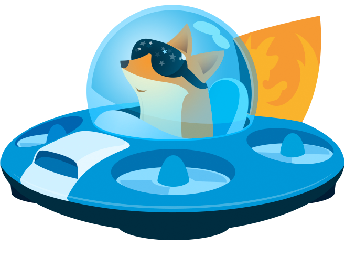
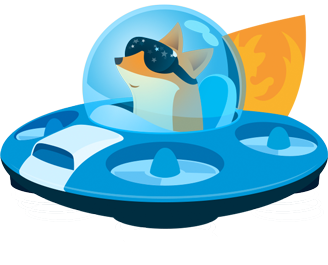
fix jaggy doorhanger image

diff --git a/addon/data/panel.css b/addon/data/panel.css
@@ -169,13 +169,11 @@ a {
 }
 
 .installed-message p {
-    font-size: 1.2rem;
+    font-size: 16px;
+    line-height: 26px;
     margin-bottom: 0;
 }
 
-.installed-message .button {
-    font-size: 16px;
-}
 
 .copter-wrapper {
     margin: 10px auto -10px;
@@ -183,10 +181,10 @@ a {
 
 .copter {
     background-image: url("copter.png");
-    background-size: 172px 139px;
-    height: 139px;
+    background-size: 164px 133px;
+    height: 133px;
     position: relative;
-    width: 172px;
+    width: 164px;
 }
 
 @media (min--moz-device-pixel-ratio: 1.3),
